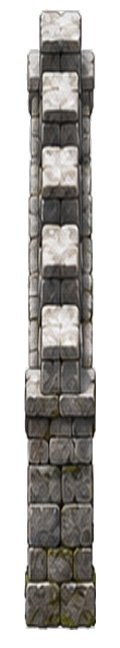
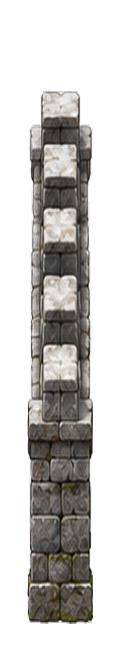
fix(stone): align east/west foot vertices and visible height; shorten wall cast only

diff --git a/index.html b/index.html
@@ -408,11 +408,11 @@ Ihre Form wird ausschließlich im Bergwerkzeug eingestellt. Ihre Deckkraft folgt
 window.VedrasCloudsDisabled=new URLSearchParams(location.search).get('clouds')!=='1';</script>
 <script src="asset-image-pool.js?v=0.3.1&amp;step11=20261028"></script><script src="render-quality-policy.js?v=0.1.0&amp;terrain=quality-source-20261117"></script><script src="gpu-terrain.js?v=0.2.0&amp;uvHighp=20261122"></script><script src="strategic-view.js?v=0.1.0"></script><script src="static-terrain-cache.js?v=0.1.0"></script><script src="render-benchmark-profiler.js?v=0.1.0"></script>
 <script src="render-step15-trace.js?v=0.1.0"></script>
-<script src="sprite-atlas-runtime.js?v=0.3.0"></script><script src="worldgen-geography.js?v=2.1.2"></script><script src="geography-io.js?v=20261120-io-v1"></script><script src="catalog.js?v=0.18.0"></script><script src="terrain-source-rules.js?v=0.18.0"></script><script src="water-texture.js?v=20261119-forest-seamless-v2"></script><script src="autotile.js?v=20261119-ground-wrap-v1"></script><script src="chunks.js?v=0.37.1&amp;step16b=20261101-offscreen1"></script><script src="terrain-worker-client.js?v=20261119-ground-wrap-v1"></script><script src="nature_catalog.js?v=20261121-desert-trees-v1"></script><script src="flora-plan.js?v=0.17.0"></script><script src="terrain-plan.js?v=0.18.0"></script><script src="sprite-planner.js?v=0.16.0"></script><script src="existing-asset-rules.js?v=20261121-desert-trees-v1"></script><script src="forest.js?v=20261122-canopy-variation-v1"></script><script src="forest-ground.js?v=20261120-organic-v1&amp;softSnow=20261122"></script><script src="nature-balance.js?v=0.36.1"></script><script src="polish.js?v=0.21.0"></script><script src="relief.js?v=0.35.0"></script><script src="shoreline.js?v=0.30.1&amp;artfix=20261027"></script><script src="river.js?v=0.30.0"></script><script src="river-banks.js?v=0.2.0"></script><script src="mountain.js?v=0.11.0"></script><script src="roads.js?v=0.31.0"></script><script src="walls.js?v=20261123-original-stone-v7"></script><script src="bridges.js?v=0.28.0"></script><script src="shadow-tone.js?v=20261122-shadow-union-v1"></script><script src="shadow-system.js?v=20261122-gray-all-v1"></script><script src="shadow-shapes.js?v=20261122-gray-all-v1"></script><script src="sprite-shadow-editor.js?v=20261122-shadow-union-v1"></script><script src="shadow-painter-ui.js?v=0.1.0"></script><script src="object-layout-cache.js?v=0.2.0"></script><script src="static-object-layer.js?v=0.2.0"></script><script src="gpu-sprite-layer.js?v=0.1.0"></script><script src="frame-preparation-cache.js?v=0.1.0"></script><script src="adaptive-lod.js?v=0.1.1&amp;step10=20261027"></script><script src="realtime-map-renderer.js?v=0.1.1"></script><script src="cloud-artwork.js?v=0.22.4&amp;step12=20261028"></script><script src="fog-atmosphere.js?v=0.22.4"></script><script src="quick-terrain-preview.js?v=20261101-1"></script>
+<script src="sprite-atlas-runtime.js?v=0.3.0"></script><script src="worldgen-geography.js?v=2.1.2"></script><script src="geography-io.js?v=20261120-io-v1"></script><script src="catalog.js?v=0.18.0"></script><script src="terrain-source-rules.js?v=0.18.0"></script><script src="water-texture.js?v=20261119-forest-seamless-v2"></script><script src="autotile.js?v=20261119-ground-wrap-v1"></script><script src="chunks.js?v=0.37.1&amp;step16b=20261101-offscreen1"></script><script src="terrain-worker-client.js?v=20261119-ground-wrap-v1"></script><script src="nature_catalog.js?v=20261121-desert-trees-v1"></script><script src="flora-plan.js?v=0.17.0"></script><script src="terrain-plan.js?v=0.18.0"></script><script src="sprite-planner.js?v=0.16.0"></script><script src="existing-asset-rules.js?v=20261121-desert-trees-v1"></script><script src="forest.js?v=20261122-canopy-variation-v1"></script><script src="forest-ground.js?v=20261120-organic-v1&amp;softSnow=20261122"></script><script src="nature-balance.js?v=0.36.1"></script><script src="polish.js?v=0.21.0"></script><script src="relief.js?v=0.35.0"></script><script src="shoreline.js?v=0.30.1&amp;artfix=20261027"></script><script src="river.js?v=0.30.0"></script><script src="river-banks.js?v=0.2.0"></script><script src="mountain.js?v=0.11.0"></script><script src="roads.js?v=0.31.0"></script><script src="walls.js?v=20261123-original-stone-v7-foot-shadow-v2"></script><script src="bridges.js?v=0.28.0"></script><script src="shadow-tone.js?v=20261122-shadow-union-v1"></script><script src="shadow-system.js?v=20261122-gray-all-v1"></script><script src="shadow-shapes.js?v=20261122-gray-all-v1"></script><script src="sprite-shadow-editor.js?v=20261122-shadow-union-v1"></script><script src="shadow-painter-ui.js?v=0.1.0"></script><script src="object-layout-cache.js?v=0.2.0"></script><script src="static-object-layer.js?v=0.2.0"></script><script src="gpu-sprite-layer.js?v=0.1.0"></script><script src="frame-preparation-cache.js?v=0.1.0"></script><script src="adaptive-lod.js?v=0.1.1&amp;step10=20261027"></script><script src="realtime-map-renderer.js?v=0.1.1"></script><script src="cloud-artwork.js?v=0.22.4&amp;step12=20261028"></script><script src="fog-atmosphere.js?v=0.22.4"></script><script src="quick-terrain-preview.js?v=20261101-1"></script>
 <script src="frozen-map-package.js?v=20261101-2"></script>
 <script src="authored-world-contract.js?v=20261118-semantic-world-v1"></script>
 <script src="frozen-map-runtime.js?v=20261118-near-archive-audit-v4&amp;edgePolicy=20261119&amp;linkedAudit=20261122&amp;coreScene=20261122"></script>
 <script src="frozen-ground-core-seams.js?v=20261120-owned-core-gate-v1&amp;hexTip=20261122"></script>
 <script src="world-tile-streamer.js?v=0.22.6&amp;fix=exact-lod-20261117&amp;clouds=off-20261120&amp;coreFilter=20261122"></script>
-<script src="world-tile-ground-reuse.js?v=0.1.0"></script><script src="app.js?v=20261120-organic-v1&amp;diagnostics=20261121&amp;shadows=partial-20261121&amp;edgeCore=20261122&amp;localPreview=20261122&amp;softSnow=20261122&amp;grayAll=20261122&amp;shadowUnion=20261122&amp;footGate=20261122&amp;walls=20261123-original-stone-v7&amp;coreScene=20261122&amp;geography=2.1.2&amp;geographyIO=20261120&amp;clouds=off-20261120"></script><script src="nature-ui.js?v=20261122-open-trees-v1&amp;alpineShrubs=20261122"></script><script src="road-ui.js?v=0.28.0"></script><script src="wall-ui.js?v=20261123-authored-art-and-joins-v3"></script><script src="ui-organizer.js?v=20261122-shadow-gray-shortcut-v1"></script><script src="forest-ui.js?v=20261122-canopy-variation-v1"></script><script src="river-ui.js?v=0.15.0"></script><script src="flora-workspace.js?v=0.13.0"></script>
+<script src="world-tile-ground-reuse.js?v=0.1.0"></script><script src="app.js?v=20261120-organic-v1&amp;diagnostics=20261121&amp;shadows=partial-20261121&amp;edgeCore=20261122&amp;localPreview=20261122&amp;softSnow=20261122&amp;grayAll=20261122&amp;shadowUnion=20261122&amp;footGate=20261122&amp;walls=20261123-original-stone-v7-foot-shadow-v2&amp;coreScene=20261122&amp;geography=2.1.2&amp;geographyIO=20261120&amp;clouds=off-20261120"></script><script src="nature-ui.js?v=20261122-open-trees-v1&amp;alpineShrubs=20261122"></script><script src="road-ui.js?v=0.28.0"></script><script src="wall-ui.js?v=20261123-authored-art-and-joins-v3"></script><script src="ui-organizer.js?v=20261122-shadow-gray-shortcut-v1"></script><script src="forest-ui.js?v=20261122-canopy-variation-v1"></script><script src="river-ui.js?v=0.15.0"></script><script src="flora-workspace.js?v=0.13.0"></script>
 </body></html>

diff --git a/walls.js b/walls.js
@@ -147,7 +147,8 @@ window.VedrasWalls=(()=>{
   const d=shadowVector(edge.kind,zoom,global);
   const sx=Number(global.offsetX??-.07)*d.height;
   const sy=Number(global.offsetY??.025)*d.height;
-  const cast=x=>({x:x.x+d.x+sx,y:x.y+d.y+sy});
+  const reach=edge.kind==='stone'?.58:1;
+   const cast=x=>({x:x.x+d.x*reach+sx,y:x.y+d.y*reach+sy});
   const tone=window.VedrasShadowTone;
   ctx.save();
   ctx.globalCompositeOperation='source-over';
@@ -193,7 +194,7 @@ window.VedrasWalls=(()=>{
  const palisadeMaterial={inset:10.5,width:16,height:70,
   cornerWidth:25,cornerHeight:76,endWidth:23,endHeight:76};
  const palisadeJoinArt=new Map();
- // Stone v6 uses newly constructed palisade-aligned 3x raster masonry.
+ // Stone v7 uses original painted, palisade-aligned 3x raster masonry.
  // 3x raster sprites retain fixed 2.5D anchors and upright stone faces.
  // No image is tilted or stretched by direction at runtime.
  const stoneJoinArt=new Map();
@@ -213,7 +214,7 @@ window.VedrasWalls=(()=>{
     image.onerror=()=>resolve(false);
     image.src='assets/walls/'+kind+(kind==='stone'?'/v7':'')+'/edge_dir'+side+
      (kind==='palisade'?'.webp?v=20261123-painted-volumetric-v5':
-      '.png?v=20261123-original-stone-v7');
+      '.png?v=20261123-original-stone-v7-foot-shadow-v2');
    }));
   }
   for(const name of ['corner_post','end_post']){
@@ -229,7 +230,7 @@ window.VedrasWalls=(()=>{
    pending.push(new Promise(resolve=>{
     image.onload=()=>resolve(true);
     image.onerror=()=>resolve(false);
-    image.src='assets/walls/stone/v7/'+name+'.png?v=20261123-original-stone-v7';
+    image.src='assets/walls/stone/v7/'+name+'.png?v=20261123-original-stone-v7-foot-shadow-v2';
    }));
   }
   artworkPromise=Promise.all(pending).then(results=>{
@@ -385,7 +386,8 @@ window.VedrasWalls=(()=>{
   const d=shadowVector(kind,zoom,global);
   const sx=Number(global.offsetX??-.07)*d.height;
   const sy=Number(global.offsetY??.025)*d.height;
-  const moved={x:p.x+d.x+sx,y:p.y+d.y+sy};
+  const reach=timber?1:.58;
+   const moved={x:p.x+d.x*reach+sx,y:p.y+d.y*reach+sy};
   const halfWidth=(timber?10:13)*zoom;
   const tone=window.VedrasShadowTone;
   ctx.save();

diff --git a/app.js b/app.js
@@ -4368,7 +4368,7 @@ function frozenSceneKey({force4x=false}={}){
   'stone-correct-diagonal-hex-slope-ground-footprint-v4',
   'stone-independent-reanchored-six-hex-raster-v5',
   'stone-palisade-native-geometry-new-ashlar-v6',
-   'stone-original-hand-painted-v7-palisade-v5-anchors',
+   'stone-original-hand-painted-v7-precise-foot-shadow-v2',
   'forest-floor-wrap-v1',
   'organic-forest-fringes-and-soft-snow-v4',
   // Strict source-core alpha stabilization and read-only seam publication

diff --git a/scripts/build_stone_walls_from_painted_atlas_v7.py b/scripts/build_stone_walls_from_painted_atlas_v7.py
@@ -86,18 +86,29 @@ def render_vertical(k,dir):
     src,bb=isolated(k)
     x,y,w,h=bb
     W,H,ax,ay=META[dir]
-    # real projected hex edge endpoints are y=82..208, upright height=73 units
-    outw=24*DPR
+    # Same projected north/south vertices as palisade v5. The actual
+    # DIAGONAL painted silhouette rises about 50-52 units above its foot,
+    # even though its nominal technical height is 73; copy the visible
+    # height, NOT the oversized v7 edge-on column. Both dirs share one
+    # symmetrical placement contract independent of the source painting.
+    wall_top=30.0          # upper vertex at y=82, painted rise ~52
+    ground_bottom=207.6314185757
+    outw=22*DPR
     xdest=(W*DPR-outw)//2
-    ydest=3*DPR
-    fullh=H*DPR - ydest - 6*DPR
+    ydest=round(wall_top*DPR)
+    bottom=round(ground_bottom*DPR)
+    fullh=bottom-ydest+1
     crop=src[y:y+h,x:x+w].copy()
     transformed=cv2.resize(crop,(outw,fullh),interpolation=cv2.INTER_CUBIC)
     target=np.zeros((H*DPR,W*DPR,4),np.uint8)
-    target[ydest:ydest+fullh,xdest:xdest+outw]=transformed
-    # bottom must rest directly on projected southern shared hex foot y=208
-    # east/west images represent their upright edge's full projection
-    return target,{'source_bbox':bb,'target_foot':[20,208]}
+    target[ydest:bottom+1,xdest:xdest+outw]=transformed
+    # The shaft must stop at the real lower HEX VERTEX. In the first
+    # build it overhung the corner piers by ~2 world units at y=210.
+    target[bottom+1:,:,:]=0
+    return target,{'source_bbox':bb,
+      'target_foot':[20,float(ground_bottom)],
+      'target_top_y':wall_top,'target_bounds_x':[xdest/DPR,(xdest+outw)/DPR],
+      'source_style':'new painted edge-on wall; no old v1-v6 masonry'}
 
 def render_post(k,name):
     src,bb=isolated(k)

diff --git a/assets/walls/stone/v7/README.md b/assets/walls/stone/v7/README.md
@@ -21,3 +21,13 @@ Das System muss im tatsächlichen Editor mit allen sechs Richtungen, offenen Ket
 Eck- und Endpfeilern und verschiedenen Zoomstufen geprüft werden. Neben Browser-
 und PNG-Tests ist die ästhetische Qualität **manuell** zu bewerten; CI kann
 gute Bildgestaltung nicht garantieren. PR #182 darf nicht ohne Zustimmung gemergt werden.
+
+## Korrektur: präzise Ost-/Westwände und gerichtete Schatten
+
+Die beiden vertikalen Wand-PNGs verwenden denselben x-Bereich [9, 31],
+starten bei y=30 (an die sichtbare Höhe der schrägen Gemälde angepasst)
+und enden am projizierten unteren Hexvertex y=207,6314. Damit ragt
+kein Wandfuß mehr unter einem Anschluss hervor. Die Mauer-Schatten erhalten
+weiterhin dieselbe globale Lichtrichtung wie alle übrigen Sprites,
+aber eine reduzierte Reichweite, um übergroße flache Schattenflächen
+zu vermeiden. Die Palisaden v5 und ihre Schattenwerte sind unverändert.
